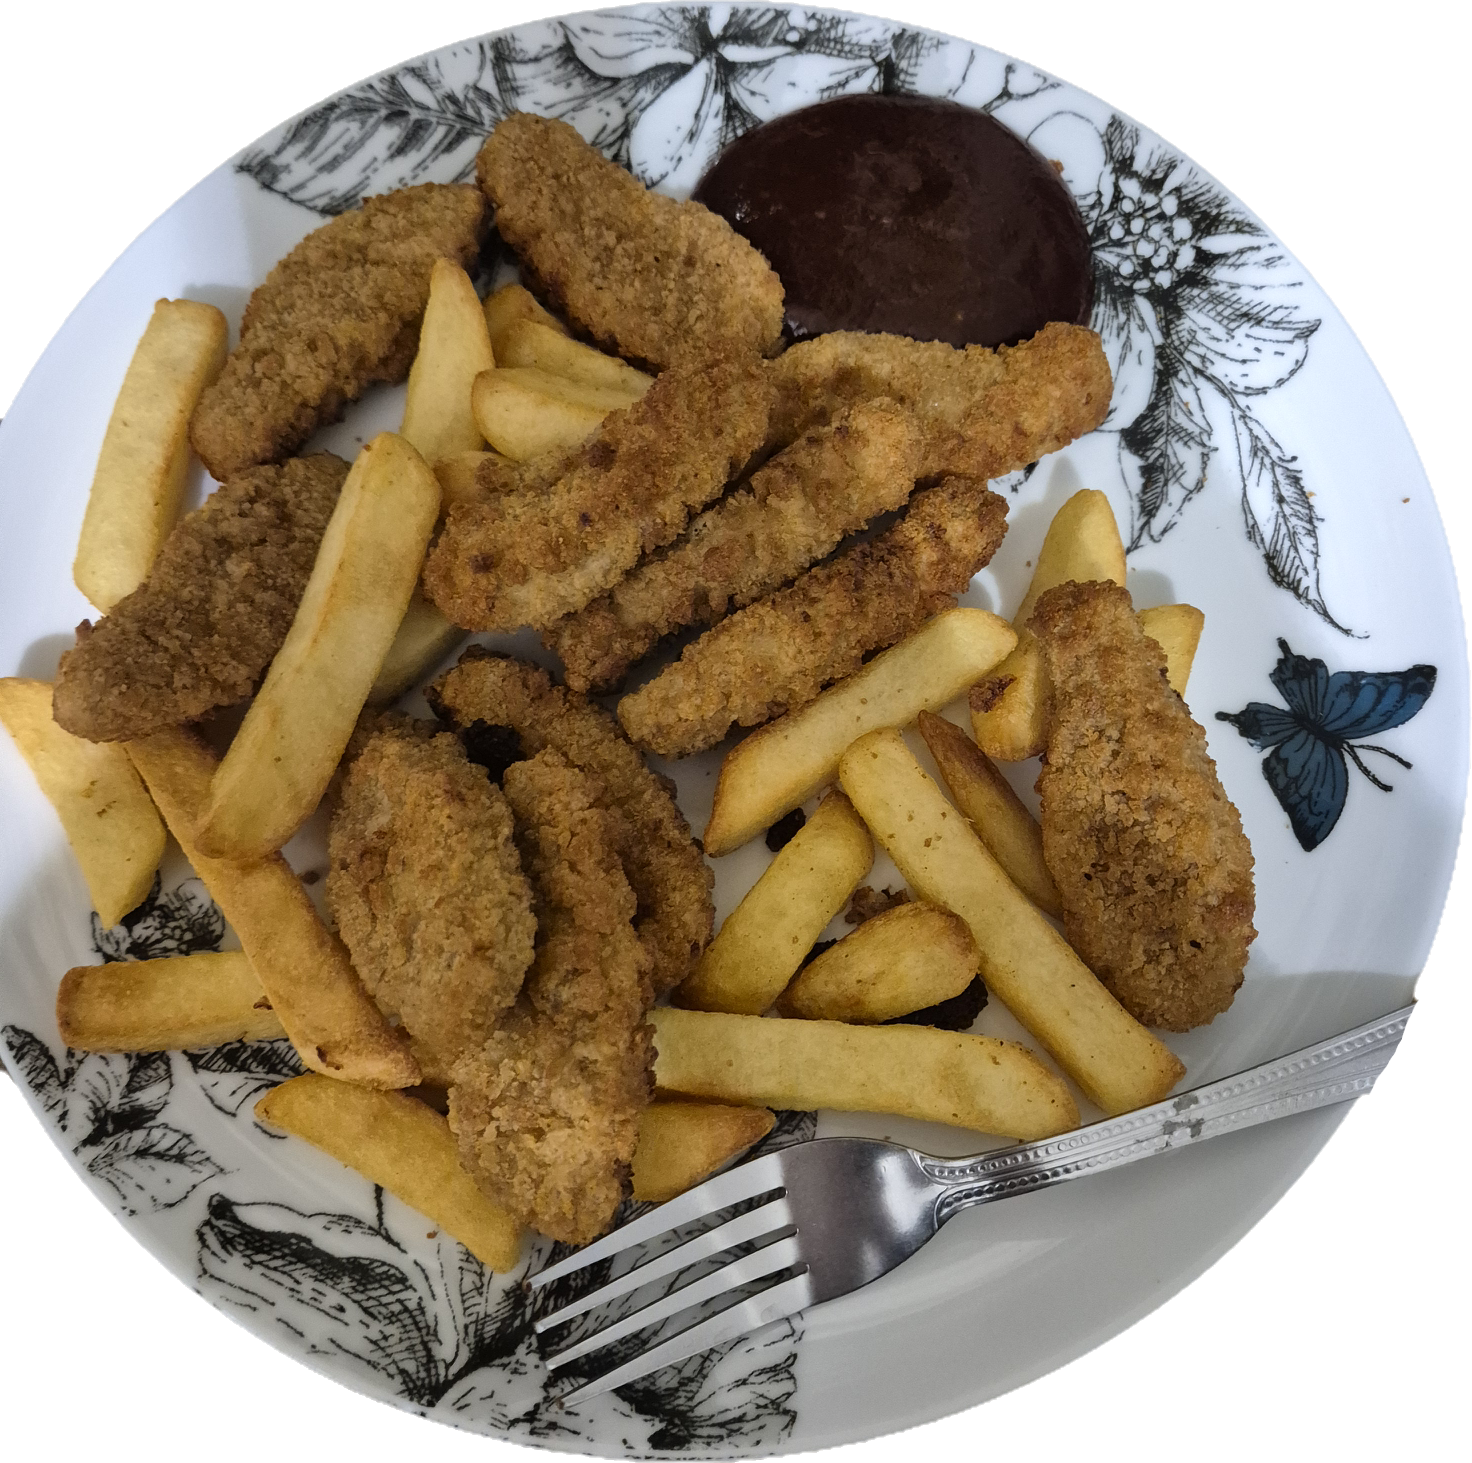
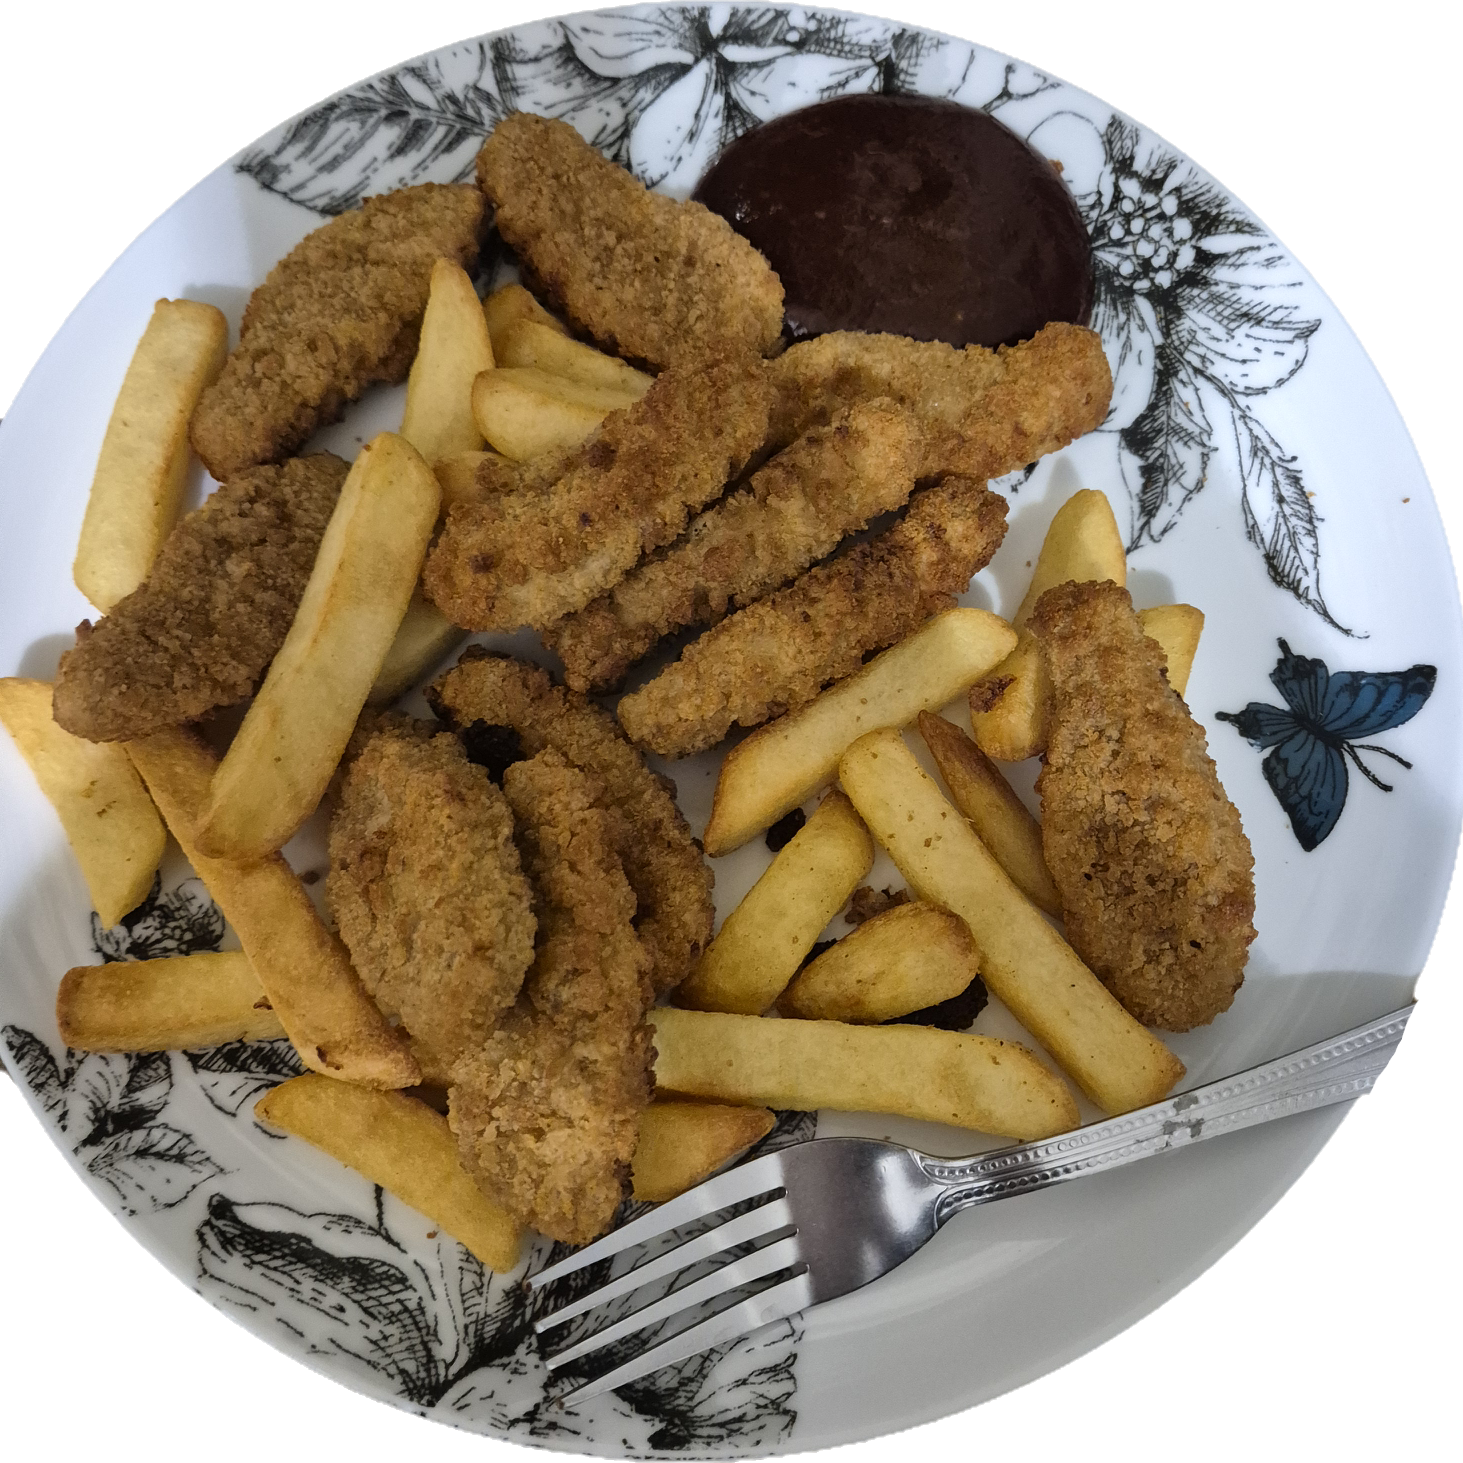
complete revamp to site with new layout and colour scheme, got rid of the fire, changed fonts, made key feats more descriptive, added loads more food

diff --git a/index.html b/index.html
@@ -4,45 +4,62 @@
     <meta charset="UTF-8">
     <meta name="viewport" content="width=device-width, initial-scale=1.0">
     <title>CIS3159 Small Task 1</title>
-    <link rel="stylesheet" href="styles/style.css">
+    <link rel="stylesheet" href="styles/styles.css">
+    <link rel="stylesheet" href="styles/grid.css">
+    <script src="js/slideshow.js"></script>
 </head>
 <body>
-    <img id="bg" src="assets/images/flames1.png" alt="background image">
-    <div class="slideshow-container">
-        <div class="slide fade">
-            <img src="assets/images/frontleft.png" alt="Front Left of the Air Fryer">
-        </div>
-        <div class="slide fade">
-            <img src="assets/images/front.png" alt="Front of the Air Fryer">
-        </div>
-        <div class="slide fade">
-            <img src="assets/images/frontright.png" alt="Front Right of the Air Fryer">
-        </div>
-    </div>    
     <h1>Lewis's Air Fryer</h1>
-    <h2 class="keyfeats">Key Features:</h2>
-    <ul class="keyfeats">
-        <li>Family Sized 4.2 Litre Basket</li>
-        <li>1400 Watt Heating Power</li>
-        <li>30 Minute Timer</li>
-        <li>Fully Variable Temperature Up To 200°C</li>
-    </ul>
-    <h3 id="price">£42.99</h3>
-    <button>Buy</button>
-    <h3 class="feats">The Ultimate Air Fryer</h3>
-    <h2 class="specs">Specifications:</h2>
-    <ul class="specs">
-        <li>Dimensions: 34cm x 32cm x 34cm</li>
-        <li>Weight: 4.37Kg</li>
-        <li>Power: 1400W</li>
-        <li>Voltage: 240V</li>
-    </ul>
-    <script src="js/slideshow.js"></script>
-    <h2 id="fooddesc">Food from this Air Fryer</h2>
-    <section id="foodsection">
-    <img class="foodimg" src="assets/images/food1.png" alt="Food from this air fryer">
-    <img class="foodimg"src="assets/images/food2.png" alt="Food from this air fryer">
+    <section id="overview">
+        <figure class="slideshow-container">
+            <figure class="slide fade">
+                <img src="assets/images/frontleft.png" alt="Front Left of the Air Fryer">
+            </figure>
+            <figure class="slide fade">
+                <img src="assets/images/front.png" alt="Front of the Air Fryer">
+            </figure>
+            <figure class="slide fade">
+                <img src="assets/images/frontright.png" alt="Front Right of the Air Fryer">
+            </figure>
+        </figure>
+        <section id="keyfeats">
+        <h2 id="price">£42.99</h2>
+        <button>Buy</button>
+        <h2>Key Features:</h2>
+        <ul>
+            <li>Family Sized 4.2 Litre Basket</li>
+            <li>1400 Watt Heating Power - This air fryer is equipped with a powerful 1400-watt heating element, ensuring your food cooks quickly and evenly. 
+                Whether you're preparing a quick snack or a full meal, the high power output guarantees efficient performance every time.</li>
+            <li>30 Minute Timer - The built-in 30-minute timer allows you to set precise cooking times for a variety of dishes. 
+                This feature ensures that your food is cooked to perfection, preventing overcooking and giving you the freedom to focus on other tasks while your meal is being prepared.</li>
+            <li>Fully Variable Temperature Up To 200°C - Customize the heat settings to suit your recipe with the adjustable temperature control. 
+                This feature provides you with the flexibility to cook a wide range of dishes at the optimal temperature, ensuring perfect results every time.</li>
+            <li>Multi-Functionality - Enjoy the versatility of four cooking functions in one appliance. You can fry, roast, grill, and bake your favorite foods with ease. 
+                    This multifunctional capability makes the air fryer a valuable addition to any kitchen, allowing you to experiment with different recipes and cooking styles.</li>
+            <li>Non-Slip Feet - Safety is essential in the kitchen, and the non-slip feet provide stability and prevent the air fryer from moving during use. 
+                    This feature ensures that the appliance stays securely in place, even on smooth and slippery surfaces, for safe and worry-free cooking.</li>
+        </ul>
+        <h2>Specifications:</h2>
+        <ul>
+            <li>Dimensions: 34cm x 32cm x 34cm</li>
+            <li>Weight: 4.37Kg</li>
+            <li>Power: 1400W</li>
+            <li>Voltage: 240V</li>
+            <li>Materials: Plastic/Metal</li>
+        </ul>
+        </section>    
     </section>
-    <img id="bg2"src="assets/images/flames2.png" alt="background image">
+    <h2 id="fooddesc">A selection of this Air Fryer's Finest Creations</h2>
+    <figure id="foodsection">
+        <img class="foodimg" src="assets/images/food1.png" alt="Food from this air fryer">
+        <img class="foodimg" src="assets/images/food2.png" alt="Food from this air fryer">
+        <img class="foodimg" src="assets/images/food3.png" alt="Food from this air fryer">
+        <img class="foodimg" src="assets/images/food4.png" alt="Food from this air fryer">
+        <img class="foodimg" src="assets/images/food5.png" alt="Food from this air fryer">
+        <img class="foodimg" src="assets/images/food6.png" alt="Food from this air fryer">
+        <img class="foodimg" src="assets/images/food7.png" alt="Food from this air fryer">
+        <img class="foodimg" src="assets/images/food8.png" alt="Food from this air fryer">
+        <img class="foodimg" src="assets/images/food9.png" alt="Food from this air fryer">        
+    </figure>
 </body>
 </html>

diff --git a/styles/styles.css b/styles/styles.css
@@ -1,0 +1,48 @@
+@import url('https://fonts.googleapis.com/css2?family=Audiowide&family=Electrolize&display=swap');
+h1, #fooddesc {
+    text-align: center;
+    font-size: 2.75em;
+}
+h1, h2, h3 {
+    font-family: "Audiowide", sans-serif;
+    font-weight: 600;
+    font-style: bold;;
+}
+p, li {
+    font-family: "Electrolize", sans-serif;
+    font-weight: 400;
+    font-style: normal;   
+}
+#foodsection img {
+    max-width: 100%;
+}
+.slideshow-container {
+max-width: 50%;
+}
+.slide {
+    display: none;
+    width: 100%;
+    height: auto;
+    text-align: center;
+
+    opacity: 0; 
+    transition: opacity 1s ease-in-out; 
+}
+.slide img {
+    width: auto;
+    height: 100%;
+    object-fit: contain;
+    max-height: 50vh; 
+}
+.slide:first-child {
+    display: block;
+    opacity: 1; 
+}
+.fade {
+    animation-name: fade;
+    animation-duration: 1.5s;
+}
+@keyframes fade {
+    from { opacity: 0; } 
+    to { opacity: 1; }
+}

diff --git a/styles/grid.css b/styles/grid.css
@@ -1,0 +1,20 @@
+@media (min-aspect-ratio: 1/1) {  /*desktop layouts*/
+    #foodsection { /*no mobile version needed as automatically stacks...*/
+        display: grid;
+        grid-template-columns: 1fr 1fr 1fr;
+        grid-template-rows: 1fr;
+    }
+    #overview { /*no mobile version needed as automatically stacks...*/
+        display: grid;
+        grid-template-columns: 1fr 2fr;
+        grid-template-rows: 1fr;
+    }
+    .slideshow-container {
+        grid-column: 1;
+        grid-row: 1;
+    }
+    #keyfeats {
+        grid-column: 2;
+        grid-row: 1;
+    }
+}
